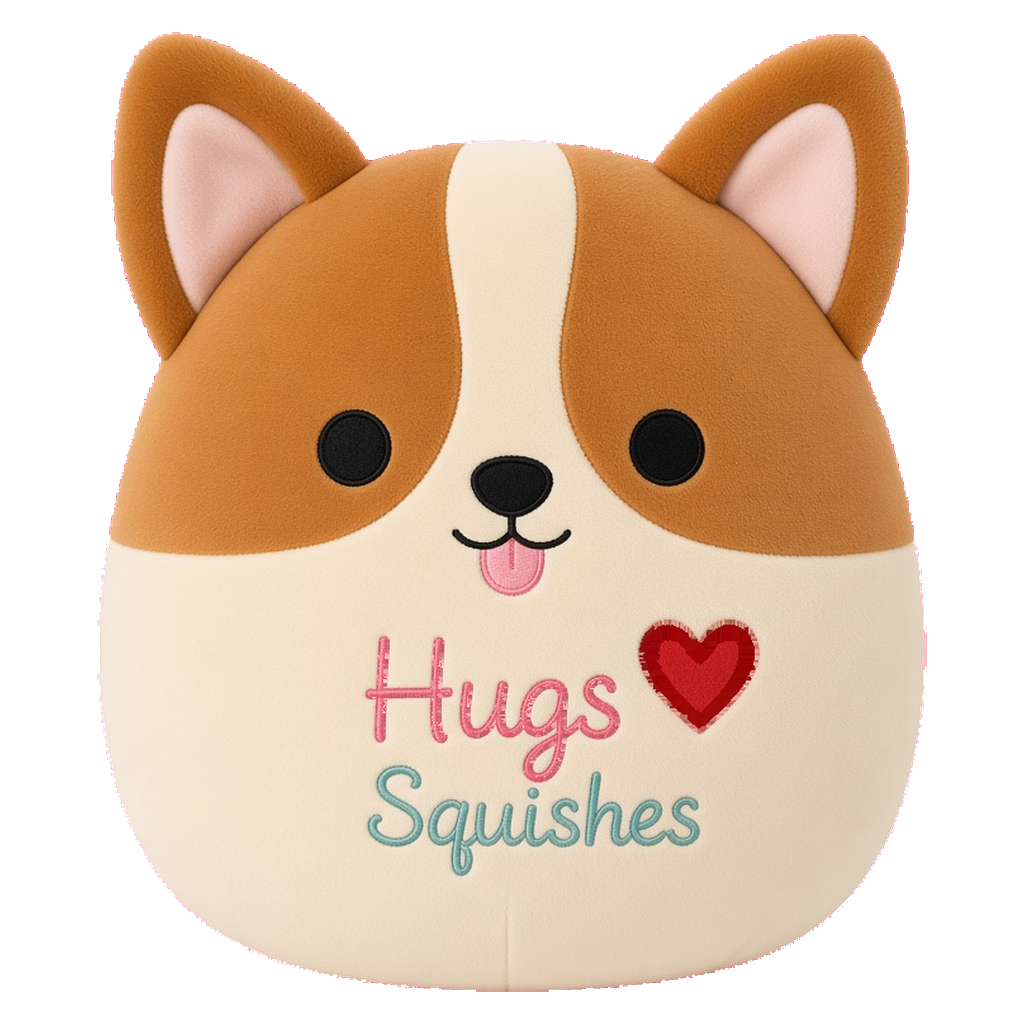
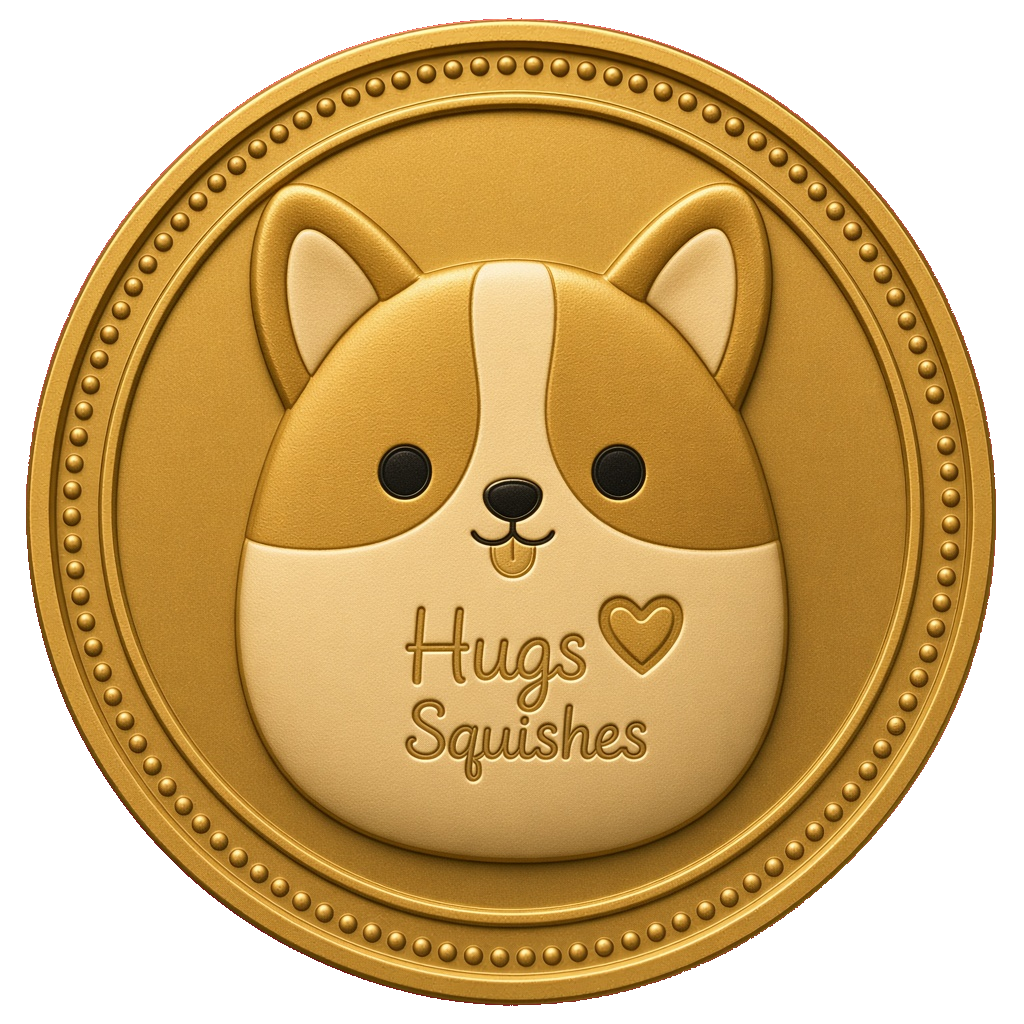
Engrave the photo doge on the gold coin.

diff --git a/index.html b/index.html
@@ -34,7 +34,7 @@
         <div class="felt">
           <div class="coin-wrap" id="coin-wrap">
             <button type="button" id="coin" class="coin-btn" aria-label="Click the corgi coin">
-              <img src="assets/coin.png" alt="Corgi squishmallow" width="1024" height="1024" draggable="false">
+              <img src="assets/coin.png" alt="Gold coin engraved with a corgi squishmallow" width="1024" height="1024" draggable="false">
             </button>
             <div class="glint" aria-hidden="true"></div>
           </div>
